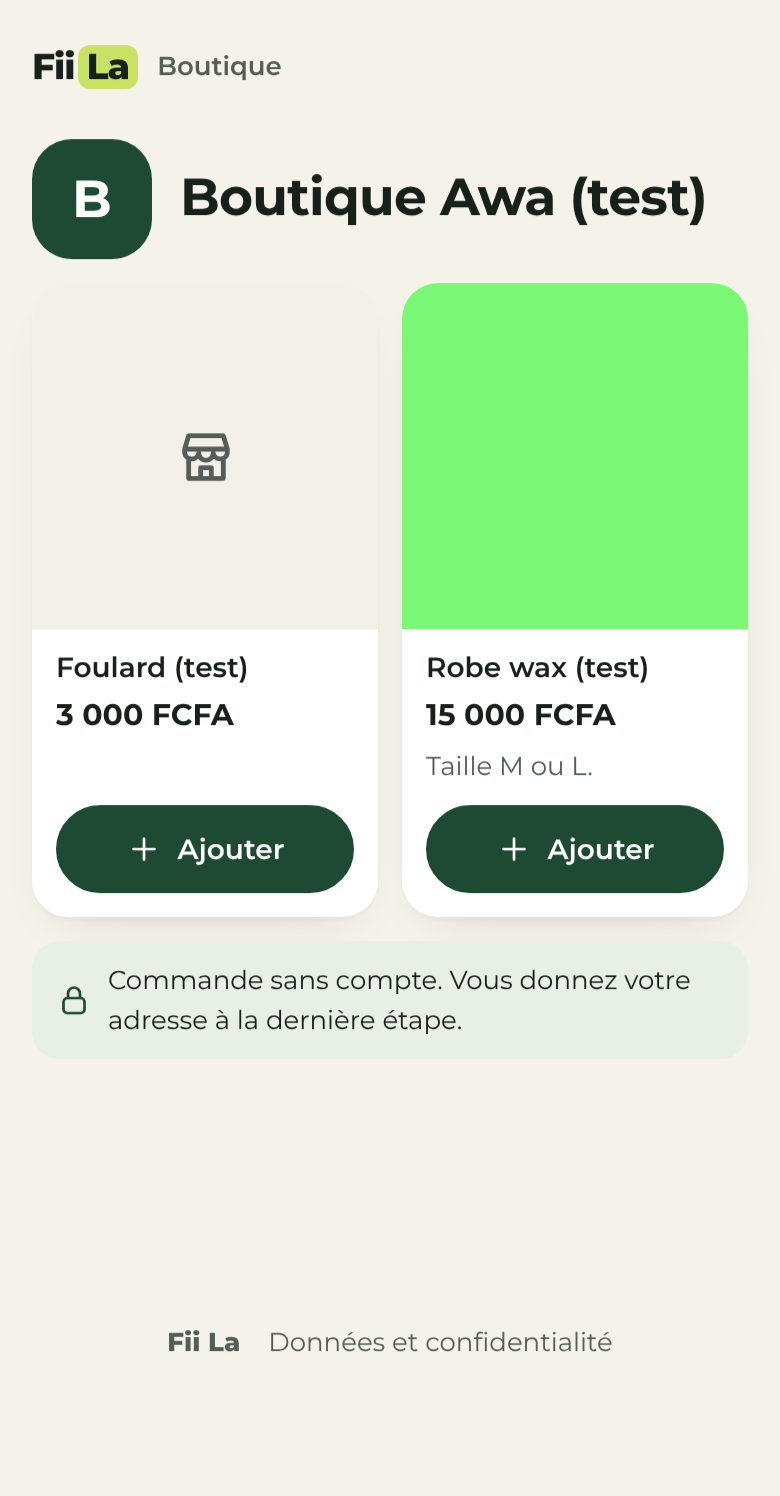
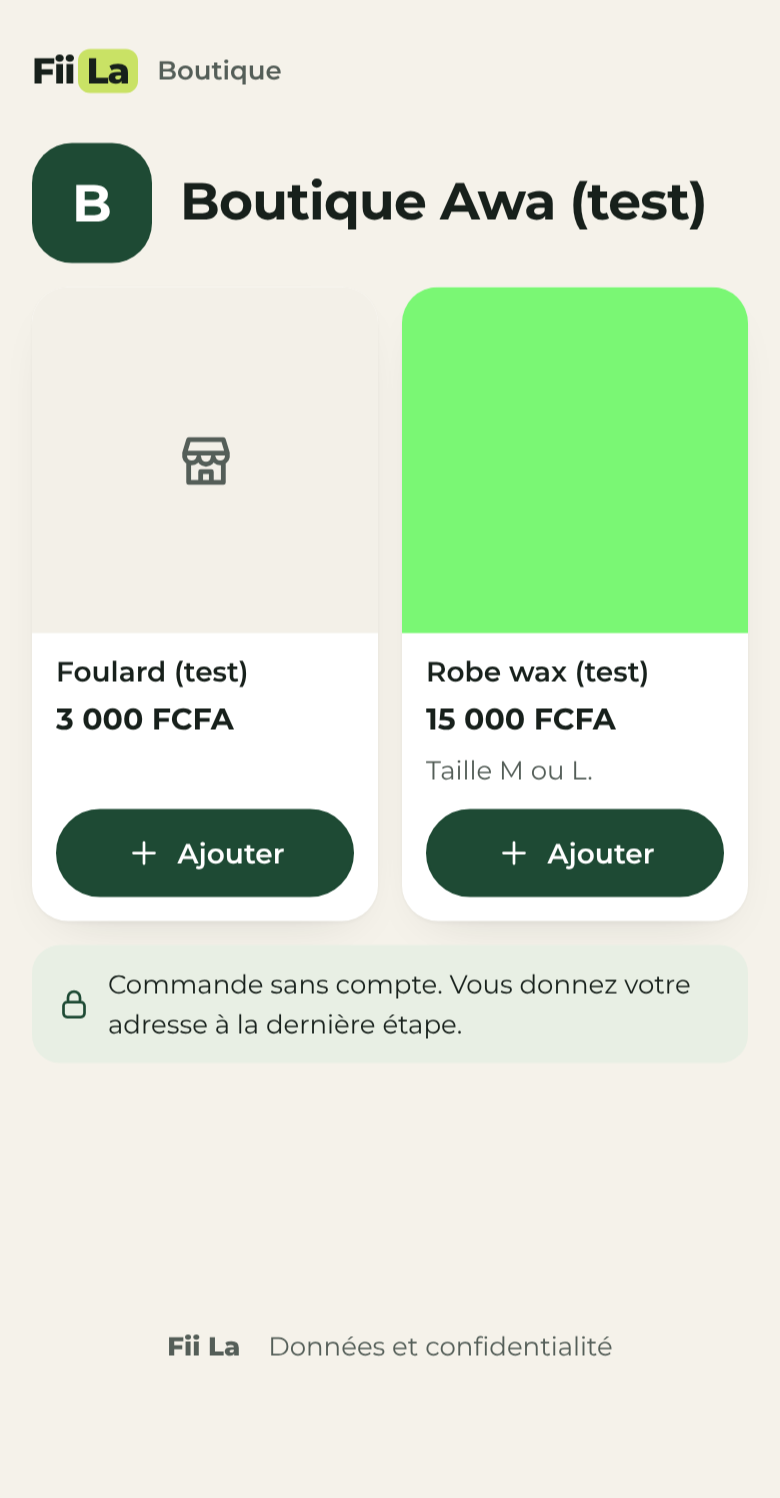
Boutique : retrait du NINEA (réglages, facture, confidentialité)
Claude-Session: https://claude.ai/code/session_017YReozxuCfYpxhCwcYgwRE

diff --git a/web/app.js b/web/app.js
@@ -3285,12 +3285,12 @@
     return sapi('fiila_shop_get', {}).then(function (r) { return shopForm(r.shop); }, failPage('Impossible de charger la boutique', 'boutique'));
   }
   function shopForm(shop) {
-    var f = { name: shop ? shop.name : '', phone: shop ? shop.phone || '' : '', ninea: shop ? shop.ninea || '' : '' };
+    var f = { name: shop ? shop.name : '', phone: shop ? shop.phone || '' : '' };
     var err = h('div', { role: 'alert' });
     var ask = shop ? null : referralAsk('shop-ref');
     var btn = h('button', { class: 'btn', type: 'button', id: 'shop-save', onclick: function () {
       btn.disabled = true; setKids(err);
-      sapi('fiila_shop_save', { p: { name: f.name.trim(), phone: f.phone.trim() || null, ninea: f.ninea.trim() || null } }).then(function (r) {
+      sapi('fiila_shop_save', { p: { name: f.name.trim(), phone: f.phone.trim() || null, ninea: null } }).then(function (r) {
         if (r && r.key) LS.set(SHOP_LS, { id: r.shop.id, key: r.key, linked: authed() || undefined });
         if (!shop) { track('shop_created', authed() ? 'account' : 'no_account'); bumpTx(); attribute('shop', null, r.key || shopKey(), ask.value()); }
         ME = null; toast(shop ? 'Boutique mise à jour.' : 'Boutique créée.'); go('#/boutique');
@@ -3302,7 +3302,6 @@
         shop ? null : h('p', { class: 'muted' }, 'Ces informations apparaissent sur vos factures.')),
       textField({ id: 'shop-name', label: 'Nom de la boutique', max: 60, value: f.name, placeholder: 'Ex. : Boutique Ndèye', onInput: function (v) { f.name = v; } }),
       textField({ id: 'shop-phone', label: 'Téléphone', optional: true, type: 'tel', inputmode: 'tel', value: f.phone, onInput: function (v) { f.phone = v; } }),
-      textField({ id: 'shop-ninea', label: 'NINEA', optional: true, max: 30, value: f.ninea, onInput: function (v) { f.ninea = v; } }),
       ask ? ask.el : null,
       err, btn,
       shop ? vitrineSection(shop) : null,
@@ -4100,7 +4099,7 @@
         h('article', { class: 'card invoice', id: 'invoice' },
           h('header', { class: 'inv-head' },
             h('div', null, h('p', { class: 'eyebrow' }, 'Facture'), h('h2', { class: 'wrapword' }, s.name),
-              s.phone ? h('p', { class: 'small muted' }, s.phone) : null, s.ninea ? h('p', { class: 'small muted' }, 'NINEA ' + s.ninea) : null),
+              s.phone ? h('p', { class: 'small muted' }, s.phone) : null),
             h('div', { class: 'inv-meta' }, h('strong', null, 'N° ' + o.ref), h('span', { class: 'small muted' }, shortDate(o.created_at)))),
           h('p', null, 'Client : ', h('strong', { class: 'wrapword' }, o.customer_name)),
           invoiceTable(o.items, o.total),
@@ -4127,7 +4126,7 @@
           h('li', null, 'Pour limiter les abus : une empreinte non réversible de l’adresse IP lors des créations, effacée après 24 heures.'),
           h('li', null, 'Si vous collez un lien court Google Maps, il est envoyé à notre serveur uniquement pour en lire le point, puis oublié : il n’est pas enregistré.'),
           h('li', null, 'Si vous créez un compte (facultatif) : votre e-mail, votre mot de passe (géré par Supabase Auth, jamais visible en clair), et si vous les ajoutez votre nom, votre téléphone et votre photo de profil.'),
-          h('li', null, 'Si vous ouvrez une boutique : son nom, son téléphone et son NINEA s’ils sont indiqués ; vos clients (nom, téléphone), vos commandes, factures et les paiements que vous enregistrez. Pour ces données clients, le commerçant décide de ce qu’il saisit et en répond auprès de ses clients ; Fii La les héberge pour lui.'),
+          h('li', null, 'Si vous ouvrez une boutique : son nom et son téléphone s’il est indiqué ; vos clients (nom, téléphone), vos commandes, factures et les paiements que vous enregistrez. Pour ces données clients, le commerçant décide de ce qu’il saisit et en répond auprès de ses clients ; Fii La les héberge pour lui.'),
           h('li', null, 'Si vous êtes livreur : votre nom, et si vous les indiquez votre téléphone, votre moyen de livraison et votre zone. Vos boutiques voient votre nom, votre téléphone et votre note ; les clients voient votre prénom.'),
           h('li', null, 'Si vous notez un article reçu : la note (1 à 5), rattachée à la commande, sans votre nom. Le commerçant voit la moyenne de ses articles.'),
           h('li', null, 'Origine et parrainage : quand vous créez une adresse, un rendez-vous, une boutique ou un espace livreur, Fii La note d’où vous venez (lien reçu, lien ou code de parrainage, ou numéro de la personne qui vous a recommandé, si vous le tapez). La personne qui vous a parrainé voit qu’une arrivée a eu lieu : le nom d’une boutique, le prénom d’un livreur, jamais le nom ni l’adresse d’un particulier.'),

diff --git a/web/sw.js b/web/sw.js
@@ -4,7 +4,7 @@
    - Réseau d'abord : une nouvelle version déployée est servie dès qu'elle est joignable.
    - Ne touche jamais aux appels à l'API (autre origine, ou /rest/ en local), ni aux tuiles de carte,
      ni à aucune requête autre que GET : aucun contenu de fiche n'est mis en cache. */
-var CACHE = 'fiila-shell-v8';
+var CACHE = 'fiila-shell-v9';
 var SHELL = [
   './', 'index.html', 'theme.js', 'styles.css', 'app.js', 'config.js', 'manifest.webmanifest',
   'fonts/montserrat-latin-400-normal.woff2', 'fonts/montserrat-latin-600-normal.woff2', 'fonts/montserrat-latin-700-normal.woff2', 'fonts/montserrat-latin-800-normal.woff2',

diff --git a/docs/HANDOFF.md b/docs/HANDOFF.md
@@ -71,6 +71,7 @@ Fii La permet d'expliquer **une seule fois** comment arriver à une entrée : po
 | 18/10 21:18 | Design v1.2 + « icônes et hiérarchie » validés en entier ; repère vocal ajouté au périmètre | Fondateur |
 | 18/10 23:16 | Prochaine fonction : vitrine publique de la boutique (choisie parmi kit de lancement, alertes livreur, vitrine, suivi 3D) ; CDP pris en charge par le fondateur | Fondateur |
 | 18/10 23:31 | Vitrine : 3 modèles au choix et personnalisation simple (« comme Shopify ») | Fondateur |
+| 18/10 23:50 | NINEA retiré de l'application (réglages de la boutique, facture, confidentialité) ; la colonne reste en base, vidée à chaque enregistrement de la boutique | Fondateur |
 
 ## 4. En attente / prochaines actions
 
@@ -147,6 +148,7 @@ Les tests créent puis suppriment des données synthétiques. Ne jamais lancer l
 
 | Date (Dakar) | Action | Commit / preuve |
 |---|---|---|
+| 18/10 23:55 | NINEA retiré (champ, facture, page confidentialité) ; tests boutique 26/26, vitrine 7/7, livreurs 8/8 | ce commit |
 | 18/10 23:39 | Modèles de vitrine en production : migration `20261019100000_fiila_vitrine_themes` appliquée, `verify-db` 13 migrations / 71 fonctions OK ; E2E déployé 38/38 Chromium et WebKit ; WebKit local vitrine 7/7, parrainage 8/8, boutique 26/26 | `8901e75` |
 | 18/10 23:27 | Vitrine en production : migration `20261019000000_fiila_vitrine` appliquée, `verify-db` 12 migrations / 71 fonctions OK ; E2E déployé 38/38 Chromium et WebKit ; WebKit local vitrine 6/6, parrainage 8/8, boutique 26/26 ; données réelles du fondateur intactes | `c2e4849` |
 | 18/10 23:20 | Accord fondateur (« je valide tout ») : complément CDP rédigé (§2 bis) ; compte du fondateur marqué administrateur (SQL, `is_admin = true`) ; suppression des 2 restes de test refusée à l'exécution par la fenêtre de confirmation, à relancer | `docs/CONFORMITE-CDP.md` |
